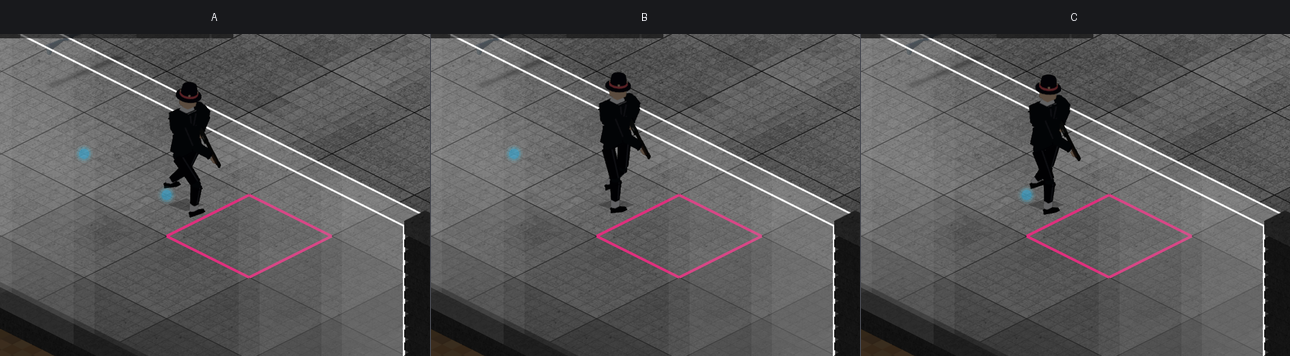
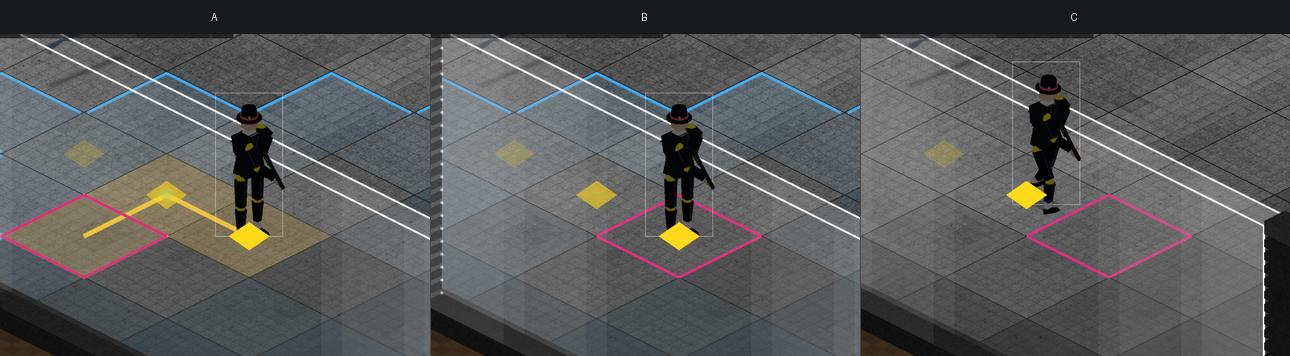
[P3] DEV VISION survives the walk — the joints stop vanishing mid-step
Director: "vamos fazer os testes com dev vision ligado para ver as junções
amarelas." The request found a gap this plan had DECLARED RATHER THAN FIXED:
the walk had no yellow-joint bake, so the joints disappeared for the duration
of every step and came back when the agent stopped.

Writing that down as a known limitation was the wrong call. A debug mode that
switches itself off during the motion being debugged is worse than no debug
mode, because it reads as a bug in the overlay rather than as a missing
asset.

The 32 phases are now baked twice. AgentSprite keys the walk's readiness on
the dev flag so the two cycles load independently — a session that never
opens DEV VISION never pays for the second set (D42: RAM, not CPU, is this
character's binding constraint). Toggling mid-stride swaps the live frame set
instead of waiting for the next step.

One naming trap closed on the way: p3_walk_export.py wrote
agent_walk_devjoints, echoing the model's own suffix, while the postures
wrote agent_frames_dev. Two spellings of one idea is how a lookup quietly
misses; the walk writes _dev now.

The frame-count blind bracket is re-rendered with dev vision ON, which is
also the better instrument: the joints make knee, hip, elbow and ankle
separable frame by frame, which is what a walk has to be judged on.

Cost, stated: 4.2 MB for the walk bakes plus 3.2 MB for the dev variant.
Choosing 16 phases over 32 would halve both.
[…]

diff --git a/tools/asset_generation/p3_walk_export.py b/tools/asset_generation/p3_walk_export.py
@@ -384,9 +384,13 @@ def main():
             name="phase%02d" % w["index"],
             phase=round(w["phase"], 5),
             glb=os.path.relpath(w["glb"], p2.REPO_ROOT).replace(os.sep, "/"),
+            ## `_dev`, matching p3_posture_export.py's `agent_frames_dev` rather
+            ## than echoing the model's own `_devjoints` suffix — AgentSprite
+            ## looks up ONE dev root per asset family, and two spellings of the
+            ## same idea is how a lookup quietly misses.
             out_dir="res://ASSETS/ISOMETRIC/source_assets/actor_bakes/"
                     "agent_walk%s/phase%02d/"
-                    % (p2._MODEL.replace("agent_base", ""), w["index"]),
+                    % ("_dev" if p2._MODEL != "agent_base" else "", w["index"]),
             height_m=round(heights["phase%02d" % w["index"]], 4),
             voxels=round(heights["phase%02d" % w["index"]] / p3.VOXEL_M, 2),
         ) for w in written],

diff --git a/PROMPTS/PLANNING/CHARACTER_MASTER_PLAN.md b/PROMPTS/PLANNING/CHARACTER_MASTER_PLAN.md
@@ -1244,8 +1244,33 @@ Passes at **0.00000 m**.
 in-between count. Blind bracket delivered: `p3_walk_frames_blind.mp4`, 8 / 16 /
 32 subsampled from one bake, labels blind, order seeded with the largest not
 last, key in `p3_walk_frames_blind_KEY.json`. **The cost is real and worth
-stating: 32 phases × 4 facings is 3.2 MB of bakes against 0.8 MB at 8**, so
-picking 16 if it is indistinguishable from 32 halves that.
+stating: 32 phases × 4 facings is 4.2 MB of bakes plus 3.2 MB for the DEV VISION
+variant**, so picking 16 if it is indistinguishable from 32 halves both.
+
+### ✅ DEV VISION now survives the walk — 2026-08-16
+
+Director: *"vamos fazer os testes com dev vision ligado para ver as junções
+amarelas."* That request found a gap this plan had **declared rather than
+fixed**: the walk had no yellow-joint bake, so the joints vanished for the
+duration of every step and returned when the agent stopped. Written down as a
+known limitation, which was the wrong call — a debug mode that switches itself
+off during the motion being debugged is worse than no debug mode, because it
+reads as a bug in the overlay.
+
+The 32 phases are now baked twice, and `AgentSprite` keys the walk's readiness on
+the dev flag so the two cycles load **independently** — a session that never
+opens DEV VISION never pays for the second set (D42: RAM is the constraint).
+Toggling mid-stride swaps the live set rather than waiting for the next step.
+
+Evidence: `p3_walk_cycle_dev.png` (a full cycle in motion) and
+`p3_postures_dev.png` (the three postures). The joints make the articulation
+legible for the first time — knee, hip, elbow and ankle are all separable frame
+by frame, which is exactly what a walk needs to be judged on.
+
+**One naming trap closed on the way:** `p3_walk_export.py` was writing
+`agent_walk_devjoints` (echoing the model's own suffix) while the postures wrote
+`agent_frames_dev`. Two spellings of one idea is how a lookup quietly misses, so
+the walk now writes `_dev` too.
 
 ### ✅ §9 #12 — THE STEP DURATION IS SETTLED: **0.56 s per GU, 2.86 m/s**
 

diff --git a/tools/persistent/CODEMAP.md b/tools/persistent/CODEMAP.md
@@ -8,7 +8,7 @@
 > Design rationale and the inviolable rules live in `CLAUDE.md`
 > (hand-authored). This file is the mechanical mirror of the code.
 
-**208 scripts · 58769 lines total** (under `godot/scripts/`)
+**208 scripts · 58779 lines total** (under `godot/scripts/`)
 
 ## Index
 
@@ -87,7 +87,7 @@
 
 ### `agent_sprite.gd`
 
-`class_name AgentSprite` · extends `Sprite2D` · 507 lines
+`class_name AgentSprite` · extends `Sprite2D` · 517 lines
 
 `godot/scripts/agents/agent_sprite.gd`
 
@@ -97,6 +97,7 @@
 - `FRAMES_ROOT` = `"res://ASSETS/ISOMETRIC/source_assets/actor_bakes/agent_frames/"`
 - `FRAMES_ROOT_DEV` = `"res://ASSETS/ISOMETRIC/source_assets/actor_bakes/agent_frames_dev/"`
 - `WALK_ROOT` = `"res://ASSETS/ISOMETRIC/source_assets/actor_bakes/agent_walk/"`
+- `WALK_ROOT_DEV` = `"res://ASSETS/ISOMETRIC/source_assets/actor_bakes/agent_walk_dev/"`
 - `SHADER_PATH` = `"res://godot/shaders/flat_normal_relight.gdshader"`
 - `DIRECTIONS` = `["N", "E", "S", "W"]`
 - `YAW_BY_DIRECTION` = `{"N": 0.0, "E": 90.0, "S": 180.0, "W": -90.0}`
